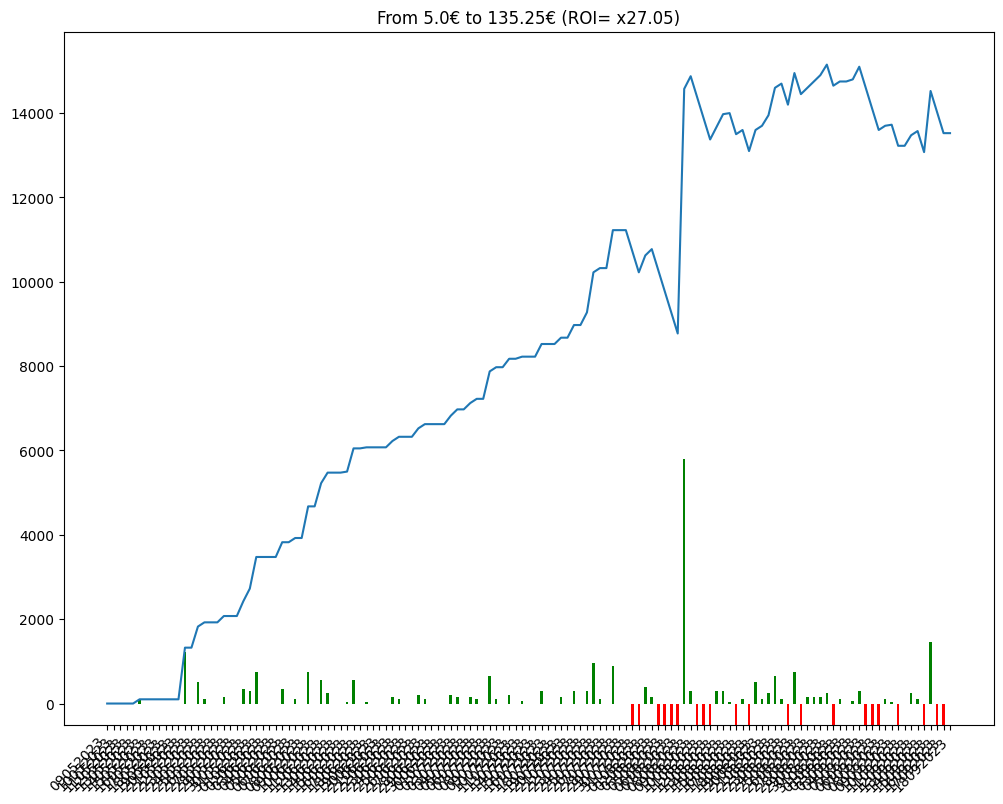
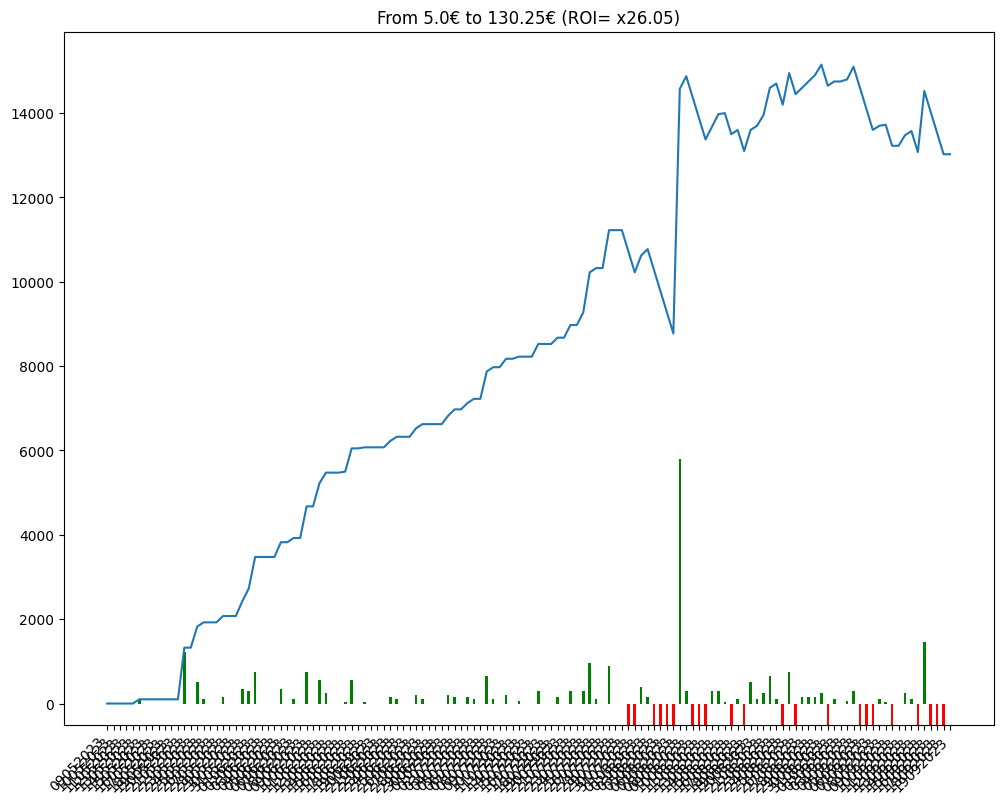
comment from python script

diff --git a/bethistory.html b/bethistory.html
@@ -86,7 +86,8 @@
             En observant la courbe 🤔, on peut avoir une idée visuelle de l'évolution des gains et ainsi évaluer le model utilisé 🧑🏫.
         </p>
         
-        <img src = "/candle.png" alt="candle chart"/><table><tr><td>Chevaux joués</td><td>Gains</td><td>URL Circuits</td></tr><tr><td>3 - ZILLIPOM</td><td>0</td><td><a href=https://www.pmu.fr/turf/18092023/r1/c6 target="_blank">https://www.pmu.fr/turf/18092023/r1/c6</a></td></tr>
+        <img src = "/candle.png" alt="candle chart"/><table><tr><td>Chevaux joués</td><td>Gains</td><td>URL Circuits</td></tr><tr><td>4 - FOR WIN</td><td>0</td><td><a href=https://www.pmu.fr/turf/19092023/r3/c5 target="_blank">https://www.pmu.fr/turf/19092023/r3/c5</a></td></tr>
+<tr><td>3 - ZILLIPOM</td><td>-500</td><td><a href=https://www.pmu.fr/turf/18092023/r1/c6 target="_blank">https://www.pmu.fr/turf/18092023/r1/c6</a></td></tr>
 <tr><td>11 - EL FARAS</td><td>-500</td><td><a href=https://www.pmu.fr/turf/17092023/r3/c4 target="_blank">https://www.pmu.fr/turf/17092023/r3/c4</a></td></tr>
 <tr><td>8 - TRAPECISTA</td><td>-500</td><td><a href=https://www.pmu.fr/turf/16092023/r7/c2 target="_blank">https://www.pmu.fr/turf/16092023/r7/c2</a></td></tr>
 <tr><td>1 - ZAYA DE LA PLATA</td><td>+1450</td><td><a href=https://www.pmu.fr/turf/15092023/r3/c4 target="_blank">https://www.pmu.fr/turf/15092023/r3/c4</a></td></tr>
